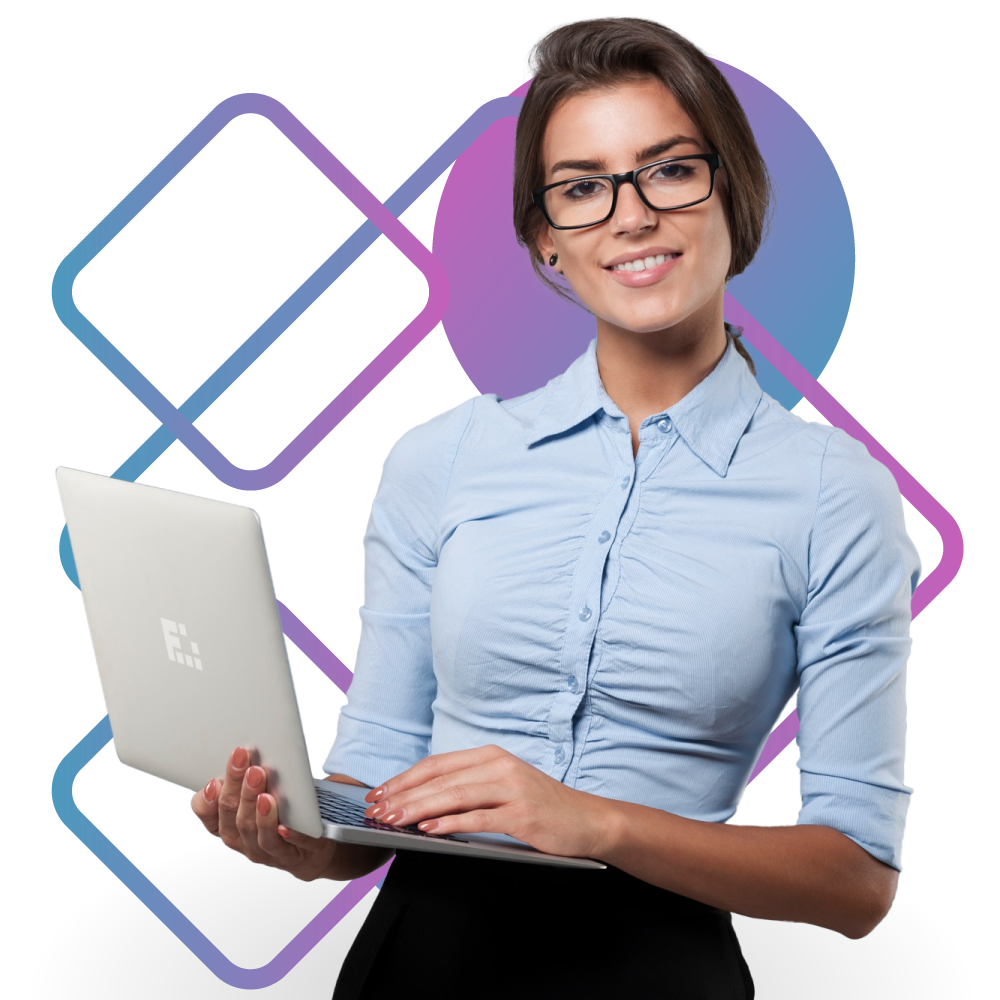
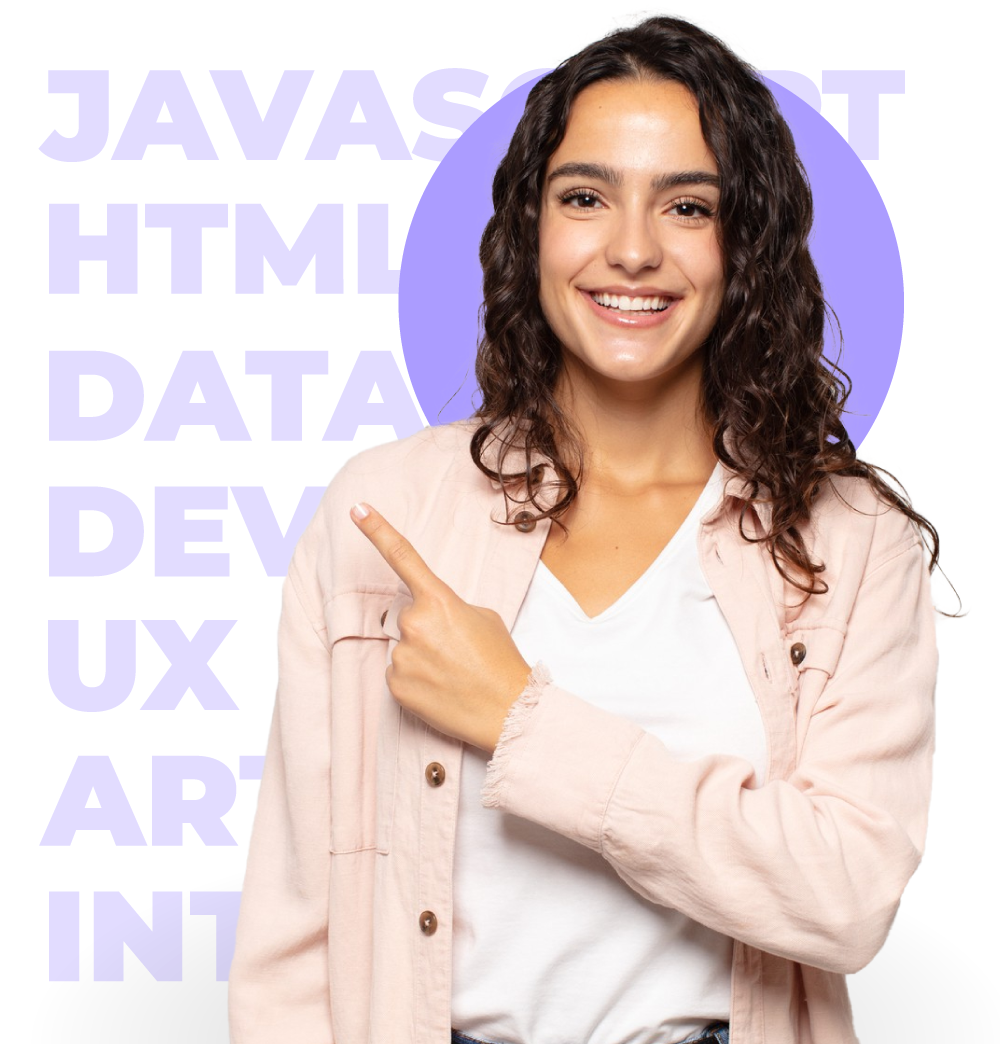
Landing V.2.0
Cambió la imagen principal
Cambió texto de Call to Actions

diff --git a/index.html b/index.html
@@ -23,8 +23,8 @@
             </div>
             <div class="actions">
                 <a class="btn comienza d-none d-md-inline-block" data-bs-toggle="modal" data-bs-target="#RegistroModal"><i class="bi-journal-code"></i> Da el primer paso</a>
-                <a class="btn preguntar d-none d-md-inline-block" data-bs-toggle="modal" data-bs-target="#CalendarioModal"><i class="bi-chat-right-dots" href="#"></i> Pregúntale a un egresado</a>
-                <a class="btn preguntar mobi d-inline-block d-md-none" data-bs-toggle="modal" data-bs-target="#CalendarioModal"><i class="bi-chat-right-dots" href="#"></i> Pregúntale a un egresado</a>
+                <a class="btn preguntar d-none d-md-inline-block" data-bs-toggle="modal" data-bs-target="#CalendarioModal"><i class="bi-chat-right-dots" href="#"></i> Habla con un egresado</a>
+                <a class="btn preguntar mobi d-inline-block d-md-none" data-bs-toggle="modal" data-bs-target="#CalendarioModal"><i class="bi-chat-right-dots" href="#"></i> Habla con un egresado</a>
             </div>
         </div>
     </header>
@@ -304,7 +304,7 @@
                             <div class="col-12 col-md-7 align-middle p-4">
                                 <h3>¿Te queda alguna duda?</h3>
                                 <p>Recibe respuestas de un Egresado con <br/>experiencia cerca de ti</p>
-                                <a class="btn preguntar" data-bs-toggle="modal" data-bs-target="#CalendarioModal"><i class="bi-chat-right-dots"></i> Pregúntale a un egresado</a>
+                                <a class="btn preguntar" data-bs-toggle="modal" data-bs-target="#CalendarioModal"><i class="bi-chat-right-dots"></i> Habla con un egresado</a>
                             </div>
                         </div>
                     </div>
@@ -337,7 +337,7 @@
 <!-- MODAL REGISTRO -->
 
 <div class="modal fade" id="RegistroModal" tabindex="-1" aria-labelledby="exampleModalLabel" aria-hidden="true">
-    <div class="modal-dialog modal-lg modal-dialog-centered">
+    <div class="modal-dialog modal-dialog-centered">
       <div class="modal-content">
         <div class="modal-header">
           <h1 class="modal-title fs-5">Da el primer paso</h1>
@@ -346,7 +346,7 @@
 
         <div class="modal-body">
 <!-- Registro a Info Session -->  
-          Aquí iría tentativamente el registro a la Info Session
+          Aquí iría el form de Hubspot
         </div>
 
       </div>
